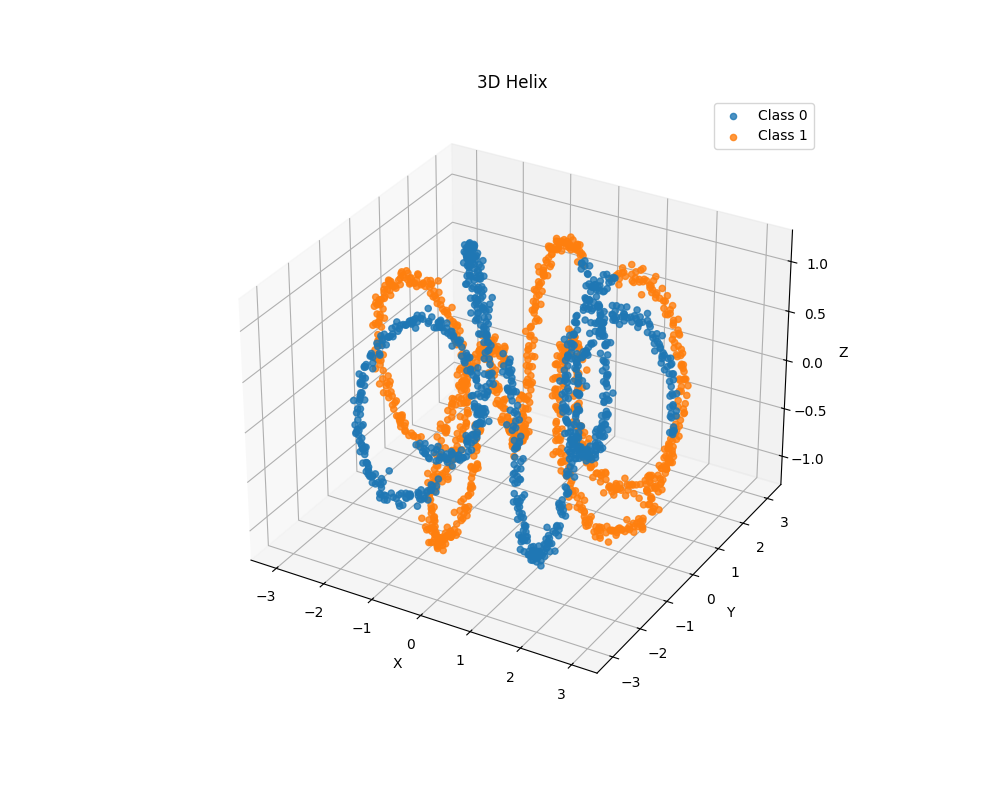
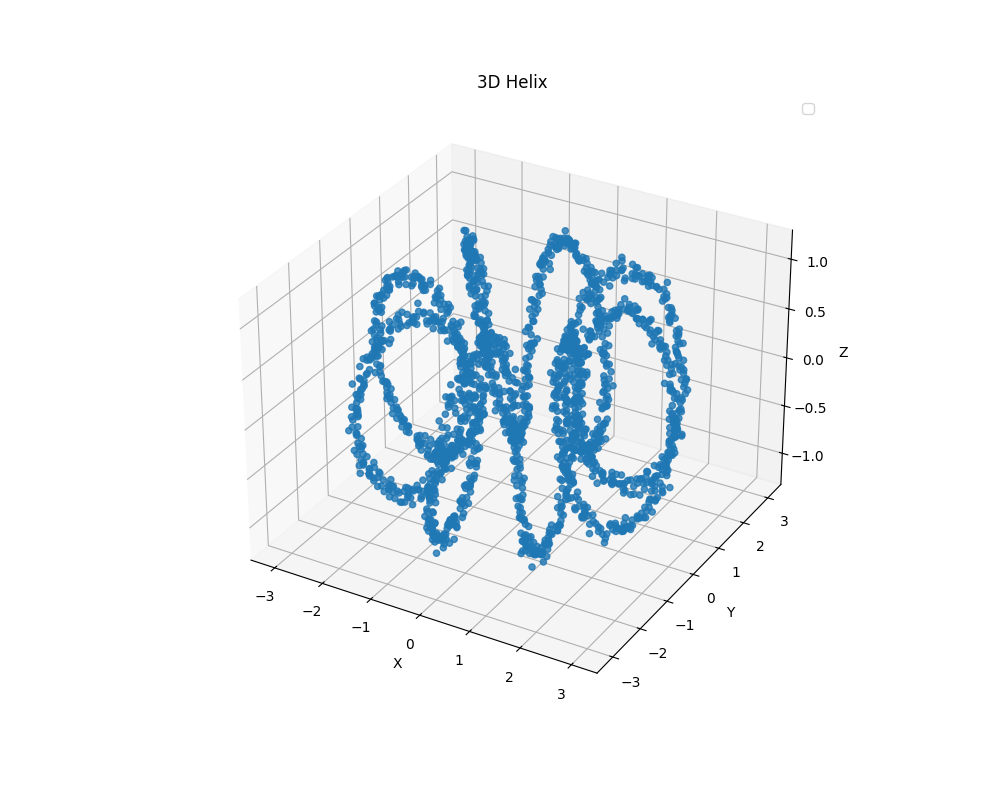
changed scene and 3d_helix figures and results of local_id

diff --git a/examples/intrinsic-dimensionality.py b/examples/intrinsic-dimensionality.py
@@ -16,10 +16,10 @@ from generate_data import generate_1D_helix, generate_3D_helix, generate_scene
 --------- Scene ---------
 Intrinsic Dimension Percentage Table:
    Intrinsic Dimension  Count  Percentage (%)
-                   1.0   3881       64.683333
-                   2.0   1144       19.066667
-                   3.0    974       16.233333
-                   4.0      1        0.016667
+                   1.0   3937       65.616667
+                   2.0   1053       17.550000
+                   3.0    973       16.216667
+                   4.0     37        0.616667
 --------- 1D helix ---------
 Pettis: 1.1188611882299895
 CorrDim: 1.0519154515473388
